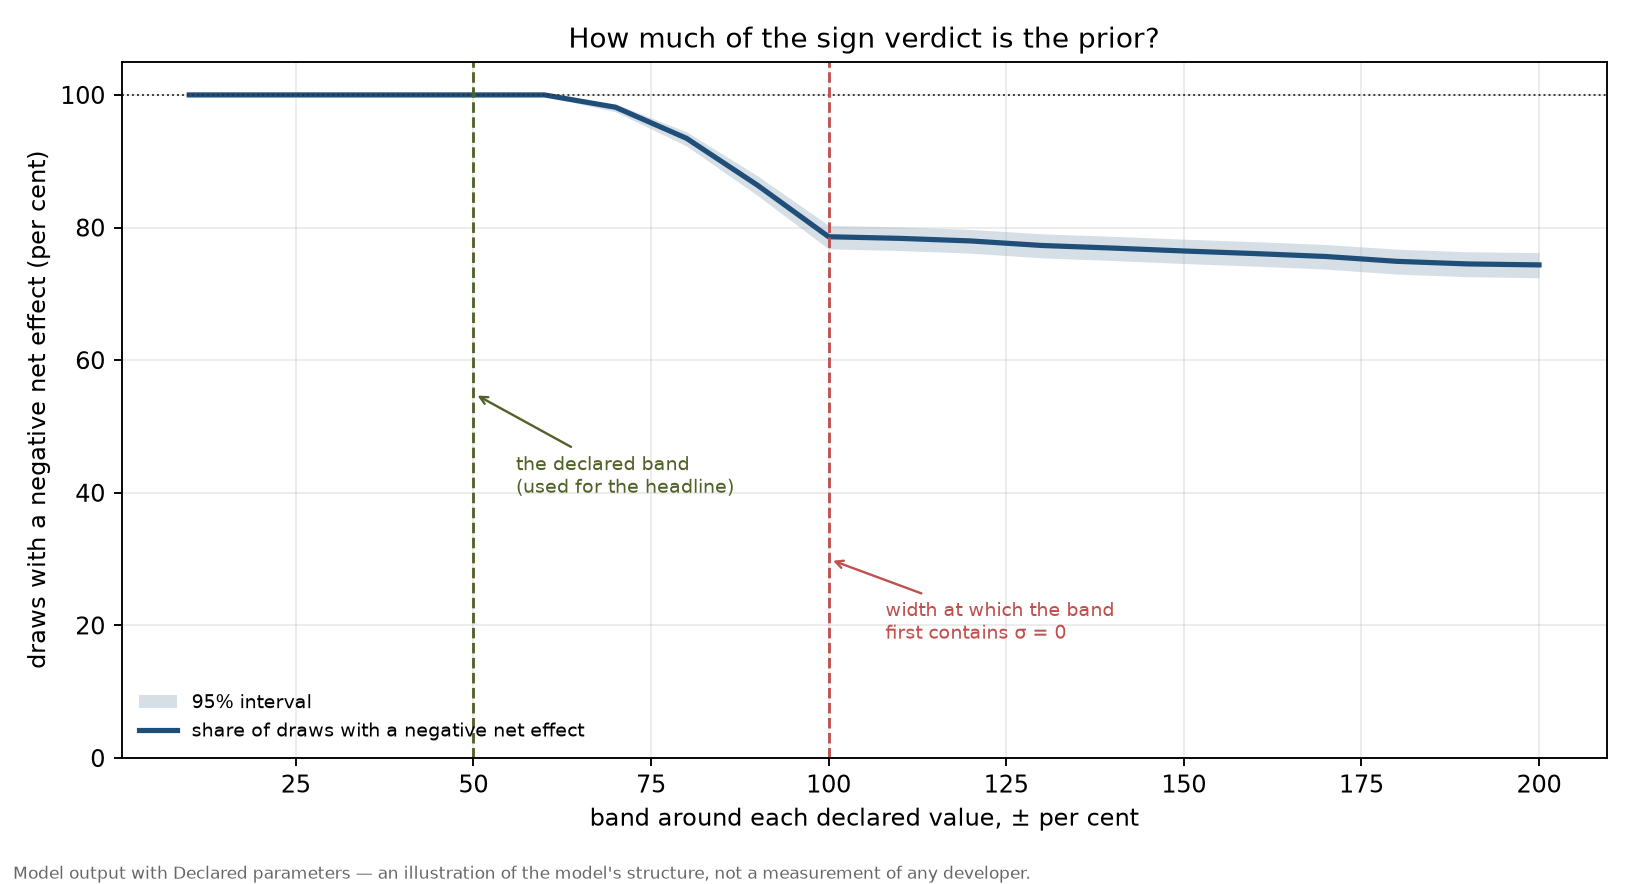
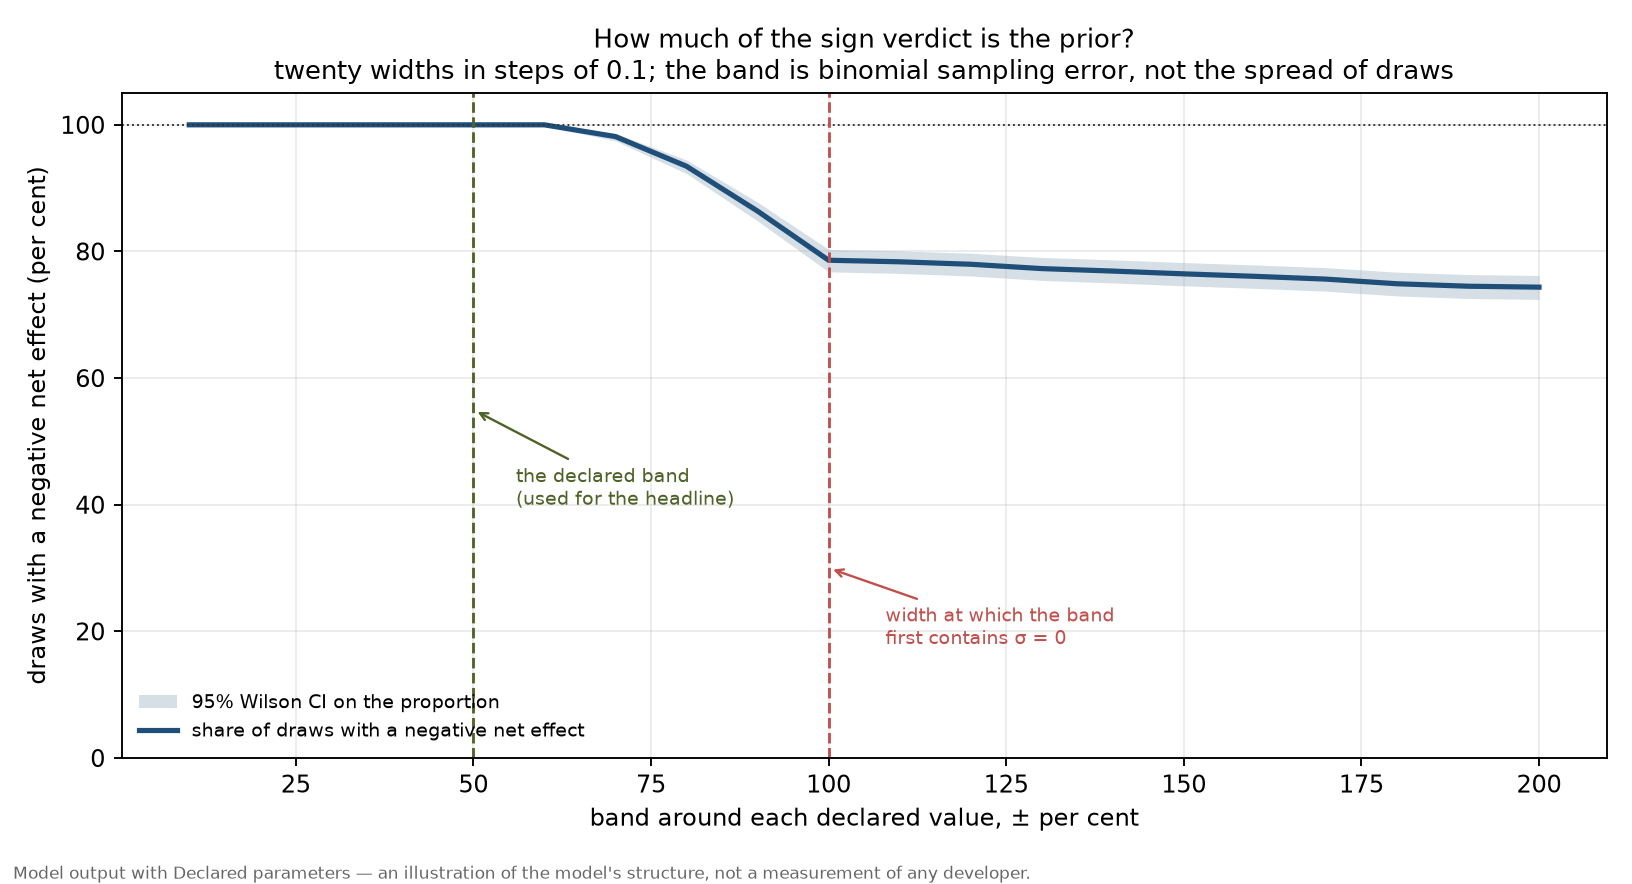
State the band resolution, name the interval correctly, and interpret the floor
Four small findings, one of which corrects the review rather than the code.

Resolution. The sweep is twenty widths from +/-10% to +/-200% in steps of 0.1,
with 2048 draws each. "Swept from ten to two hundred" read as continuous, so the
resolution is now stated in the README, in the document and in the figure subtitle.

The interval. The review describes it as a percentile interval across draws.
It is not: sign_audit_with_spread computes a Wilson score interval on the
proportion (global_sensitivity.rs, z = 1.96, Wilson centre and half-width), so it
measures binomial sampling error on the fraction of the sampled space, not the
spread of individual outcomes. The review's substantive point stands -- the label
"95% interval" invited exactly that misreading -- so the legend now reads "95%
Wilson CI on the proportion" and the subtitle says what the band is not.

The floor. 74.4% at +/-200%, not 73%; the earlier figure was my rounding. It now
carries its interpretation: even at a band wide enough to contain essentially any
plausible value the sign is negative about three times in four, and that residual
is a property of the model's structure rather than a measurement of anything.

The pension section. The regime transitions are now Unverified and load-bearing
for the projection, which the transfer table said but the section did not. A note
at the head of section 3 points at the ledger and states the check that would
settle it.
[…]

diff --git a/tools/plot_comprehension_cost.py b/tools/plot_comprehension_cost.py
@@ -512,7 +512,7 @@ def figure_band(rows, out_dir):
 
     fig, ax = plt.subplots(figsize=(9.6, 5.2))
     ax.fill_between(band, low, high, color="#1f4e79", alpha=0.18, lw=0,
-                    label="95% interval")
+                    label="95% Wilson CI on the proportion")
     ax.plot(band, fraction, color="#1f4e79", lw=2.2, label="share of draws with a negative net effect")
     ax.axhline(100, color="#333333", lw=0.8, ls=":")
 
@@ -529,7 +529,11 @@ def figure_band(rows, out_dir):
     ax.set_xlabel("band around each declared value, ± per cent")
     ax.set_ylabel("draws with a negative net effect (per cent)")
     ax.set_ylim(0, 105)
-    ax.set_title("How much of the sign verdict is the prior?")
+    ax.set_title(
+        "How much of the sign verdict is the prior?\n"
+        "twenty widths in steps of 0.1; the band is binomial sampling error, not the spread of draws",
+        fontsize=11,
+    )
     ax.legend(frameon=False, fontsize=8, loc="lower left")
     ax.grid(alpha=0.25)
     footer(fig)

diff --git a/README.md b/README.md
@@ -189,6 +189,12 @@ and returns the percentage that maximizes total utility, not just income.
   Lohnausweis instead of relying on tables that can't capture every personal deduction
 
 ### 3. Monte Carlo pension simulation
+
+> **One input on this path is `Unverified`.** The economic-regime transition probabilities are
+> described in the code as "calibrated loosely" to post-WWII business-cycle frequency, with no
+> series fitted to them. They are load-bearing for the projection and the repository does not claim
+> otherwise; the ledger in [How to read a claim here](#how-to-read-a-claim-here) records it with the
+> check that would settle it.
 Every work-percentage scenario is stress-tested against your actual retirement, not
 just projected with a single "expected return" assumption:
 - **10,000-path simulation** under Conservative / Base Case / Optimistic market
@@ -379,8 +385,14 @@ claim rather than illustrate one prior.
   study than any the current literature offers, which is part of why it has not been done.
 - **A figure worth more than any number above**, because it shows how much of the verdict is the
   prior rather than the model: the share of draws with a negative net effect, as the band widens.
-  It is flat at 100% only while the band is narrow, and settles near 73% at ±200%. See
-  [`figures/comprehension-7-band.png`](figures/comprehension-7-band.png).
+  Twenty widths from ±10% to ±200% in steps of 0.1, 2,048 draws at each. It is flat at 100% only
+  while the band is narrow, and settles at **74.4%** at ±200%. That floor is the last point of the
+  curve and it is worth stating what it buys: even at a band wide enough to contain essentially any
+  plausible value, the sign is still negative in about three draws in four — and that residual is a
+  property of the model's structure, not a measurement of anything. See
+  [`figures/comprehension-7-band.png`](figures/comprehension-7-band.png); the interval drawn around
+  the curve is binomial sampling error on the proportion (Wilson), not the spread of individual
+  draws.
 
 ### Generative review is necessary, not sufficient
 

diff --git a/AI_AUTHORING_AND_COMPREHENSION.md b/AI_AUTHORING_AND_COMPREHENSION.md
@@ -687,11 +687,22 @@ the wrong endpoints when testing separation and reported the top two as overlapp
 The earlier version supported the net sign on the strength of one central cell. That is now
 measured across the space, by drawing uniformly over every input's range:
 
+The sweep behind figure 7 runs **twenty widths from ±10% to ±200% in steps of 0.1**, 2,048 draws
+at each. The interval reported with each width is a **Wilson score interval** on the proportion of
+the sampled space, so it measures binomial sampling error — how well 2,048 draws estimate the
+fraction — and not the spread of individual outcomes, which is far wider (the "worst" and "best"
+columns are that spread).
+
 | Band around the declared values | Draws with a negative net effect | 95% CI | Worst | Best |
 |---|---:|---|---:|---:|
 | ±50% | **100.0%** | 99.9%–100.0% | −808 h | −20 h |
 | ±100% | **79.4%** | 78.1%–80.6% | −2046 h | +611 h |
 | ±150% | **77.2%** | 75.9%–78.5% | −3882 h | +1394 h |
+
+At the widest band the sign is still negative in **74.4%** of draws. That floor is worth stating:
+even where the band is wide enough to contain essentially any plausible value, the model says the
+sign is negative about three times in four, and that residual is a property of the model's structure
+rather than a measurement of anything outside it.
 
 The conclusion is therefore not a single-cell result: within a ±50% band the sign is unanimous
 across 4,096 draws. But the band is a **prior**, and the ±50% band excludes `σ = 0` — the authoring
